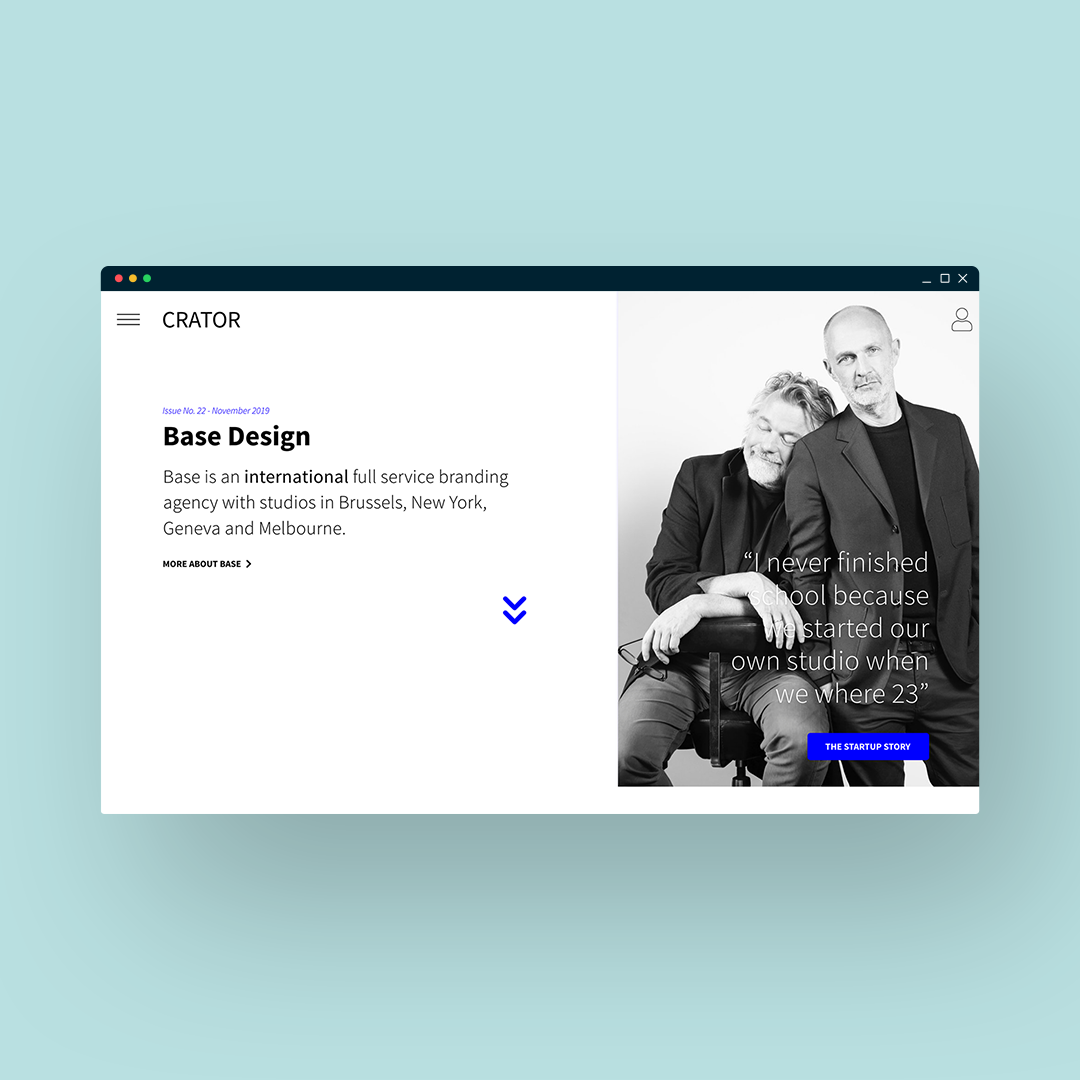
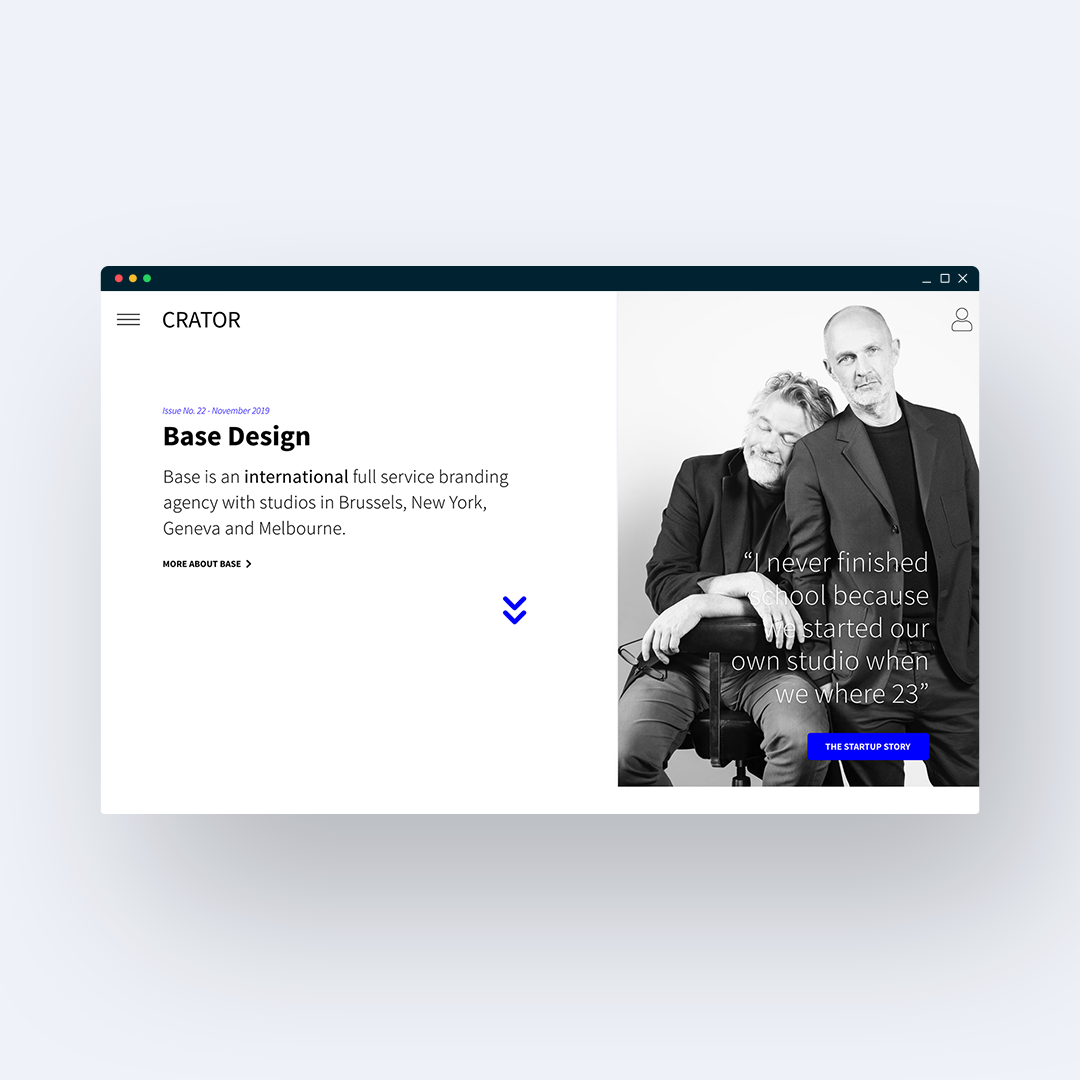
achtergrond

diff --git a/stijl.css b/stijl.css
@@ -175,7 +175,7 @@ button:hover {
   background-image: url(afb2/foodfairy.png);
 }
 #dertiende {
-  background-image: url(afb/samen3.png);
+  background-image: url(afb2/pattern.png);
 }
 
 #eerste, #tweede, #vierde, #vijfde, #zesde, #negende, #tiende, #elfde, #twaalfde, #dertiende {
